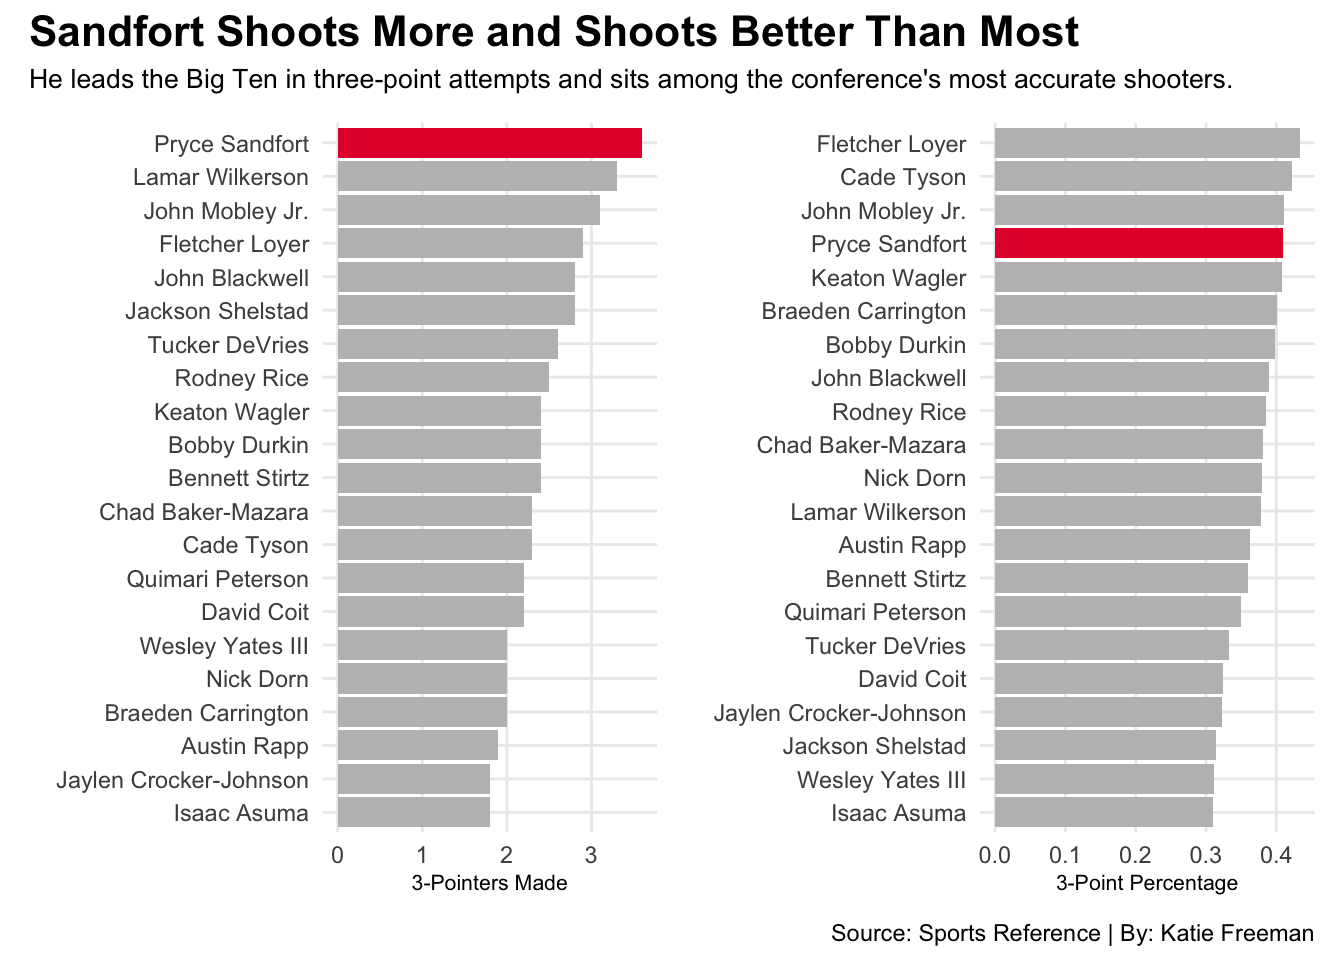
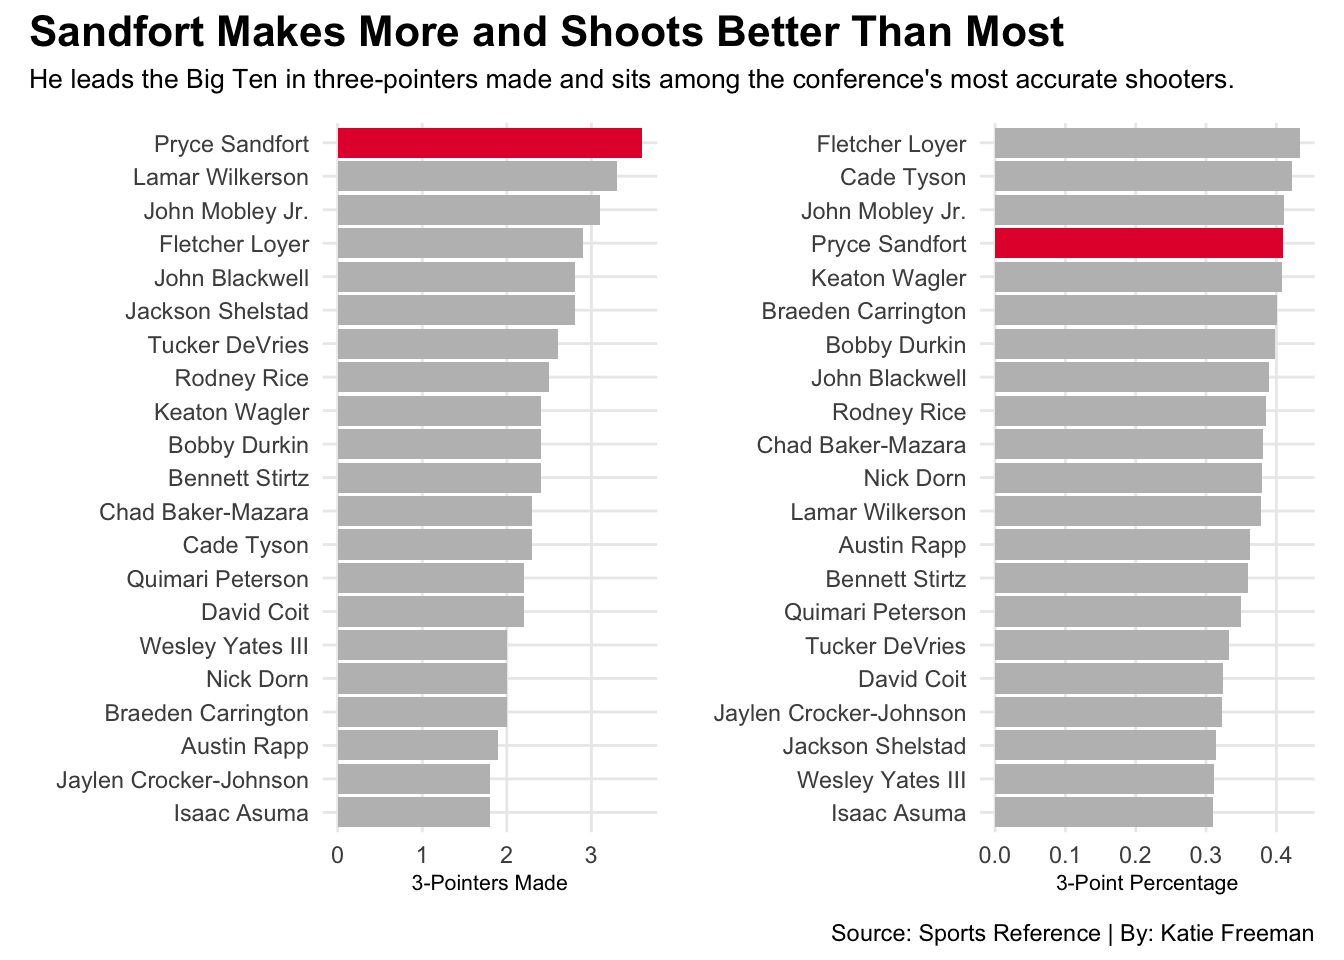
final edits to blog

Changed region(s): [[0.1562, 0.0, 0.9062, 0.0938]]

diff --git a/posts/big-ten-husker-mens-basketball/index.html b/posts/big-ten-husker-mens-basketball/index.html
@@ -9,7 +9,7 @@
 <meta name="author" content="Katie Freeman">
 <meta name="dcterms.date" content="2026-04-10">
 
-<title>Is Pryce Sandfort the Most Effective High Volume Three-Point Shooter Among Big Ten Players? – Katie’s Sports Blog</title>
+<title>No One Shoots More or Better Than Pryce Sandfort in the Big Ten – Katie’s Sports Blog</title>
 <style>
 /* Default styles provided by pandoc.
 ** See https://pandoc.org/MANUAL.html#variables-for-html for config info.
@@ -317,7 +317,7 @@ pre > code.sourceCode > span > a:first-child::before { text-decoration: underlin
 <header id="title-block-header" class="quarto-title-block default page-columns page-full">
   <div class="quarto-title-banner page-columns page-full">
     <div class="quarto-title column-body">
-      <h1 class="title">Is Pryce Sandfort the Most Effective High Volume Three-Point Shooter Among Big Ten Players?</h1>
+      <h1 class="title">No One Shoots More or Better Than Pryce Sandfort in the Big Ten</h1>
                                 <div class="quarto-categories">
                 <div class="quarto-category">bigten</div>
                 <div class="quarto-category">basketball</div>
@@ -392,7 +392,7 @@ pre > code.sourceCode > span > a:first-child::before { text-decoration: underlin
 <span id="cb1-20"><a href="#cb1-20" aria-hidden="true" tabindex="-1"></a>  <span class="fu">labs</span>(</span>
 <span id="cb1-21"><a href="#cb1-21" aria-hidden="true" tabindex="-1"></a>    <span class="at">x=</span><span class="st">"Player"</span>, </span>
 <span id="cb1-22"><a href="#cb1-22" aria-hidden="true" tabindex="-1"></a>    <span class="at">y=</span><span class="st">"3-Point Attempts"</span>, </span>
-<span id="cb1-23"><a href="#cb1-23" aria-hidden="true" tabindex="-1"></a>    <span class="at">title=</span><span class="st">"No One Shoots More Than Sandfort"</span>,</span>
+<span id="cb1-23"><a href="#cb1-23" aria-hidden="true" tabindex="-1"></a>    <span class="at">title=</span><span class="st">"Sandfort Sits at the Top for Shooting Volume"</span>,</span>
 <span id="cb1-24"><a href="#cb1-24" aria-hidden="true" tabindex="-1"></a>    <span class="at">subtitle=</span><span class="st">"Among players averaging at least 5 threes per game, he leads the Big Ten in three-point attempts"</span>, </span>
 <span id="cb1-25"><a href="#cb1-25" aria-hidden="true" tabindex="-1"></a>    <span class="at">caption=</span><span class="st">"Source: Sports Reference | By: Katie Freeman"</span></span>
 <span id="cb1-26"><a href="#cb1-26" aria-hidden="true" tabindex="-1"></a>    ) <span class="sc">+</span></span>
@@ -503,8 +503,8 @@ pre > code.sourceCode > span > a:first-child::before { text-decoration: underlin
 <span id="cb3-24"><a href="#cb3-24" aria-hidden="true" tabindex="-1"></a></span>
 <span id="cb3-25"><a href="#cb3-25" aria-hidden="true" tabindex="-1"></a>bar2 <span class="sc">+</span> bar1 <span class="sc">+</span></span>
 <span id="cb3-26"><a href="#cb3-26" aria-hidden="true" tabindex="-1"></a>  <span class="fu">plot_annotation</span>(</span>
-<span id="cb3-27"><a href="#cb3-27" aria-hidden="true" tabindex="-1"></a>    <span class="at">title =</span> <span class="st">"Sandfort Shoots More and Shoots Better Than Most"</span>,</span>
-<span id="cb3-28"><a href="#cb3-28" aria-hidden="true" tabindex="-1"></a>    <span class="at">subtitle =</span> <span class="st">"He leads the Big Ten in three-point attempts and sits among the conference's most accurate shooters."</span>,</span>
+<span id="cb3-27"><a href="#cb3-27" aria-hidden="true" tabindex="-1"></a>    <span class="at">title =</span> <span class="st">"Sandfort Makes More and Shoots Better Than Most"</span>,</span>
+<span id="cb3-28"><a href="#cb3-28" aria-hidden="true" tabindex="-1"></a>    <span class="at">subtitle =</span> <span class="st">"He leads the Big Ten in three-pointers made and sits among the conference's most accurate shooters."</span>,</span>
 <span id="cb3-29"><a href="#cb3-29" aria-hidden="true" tabindex="-1"></a>    <span class="at">caption=</span><span class="st">"Source: Sports Reference | By: Katie Freeman"</span></span>
 <span id="cb3-30"><a href="#cb3-30" aria-hidden="true" tabindex="-1"></a>  )  <span class="sc">&amp;</span> </span>
 <span id="cb3-31"><a href="#cb3-31" aria-hidden="true" tabindex="-1"></a>  <span class="fu">theme</span>(</span>

diff --git a/index.html b/index.html
@@ -373,7 +373,7 @@ window.Quarto = {
 
 <div class="quarto-listing quarto-listing-container-default" id="listing-listing">
 <div class="list quarto-listing-default">
-<div class="quarto-post image-right" data-index="0" data-categories="YmlndGVuJTJDYmFza2V0YmFsbCUyQ2h1c2tlcnM=" data-listing-date-sort="1775797200000" data-listing-file-modified-sort="1775777204667" data-listing-date-modified-sort="NaN" data-listing-reading-time-sort="6" data-listing-word-count-sort="1007">
+<div class="quarto-post image-right" data-index="0" data-categories="YmlndGVuJTJDYmFza2V0YmFsbCUyQ2h1c2tlcnM=" data-listing-date-sort="1775797200000" data-listing-file-modified-sort="1775778417668" data-listing-date-modified-sort="NaN" data-listing-reading-time-sort="6" data-listing-word-count-sort="1009">
 <div class="thumbnail"><a href="./posts/big-ten-husker-mens-basketball/index.html" class="no-external">
 
 <img loading="lazy" src="./posts/big-ten-husker-mens-basketball/image.png" class="thumbnail-image">
@@ -381,7 +381,7 @@ window.Quarto = {
 </a></div>
 <div class="body">
 <h3 class="no-anchor listing-title">
-<a href="./posts/big-ten-husker-mens-basketball/index.html" class="no-external">Is Pryce Sandfort the Most Effective High Volume Three-Point Shooter Among Big Ten Players?</a>
+<a href="./posts/big-ten-husker-mens-basketball/index.html" class="no-external">No One Shoots More or Better Than Pryce Sandfort in the Big Ten</a>
 </h3>
 <div class="listing-categories">
 
